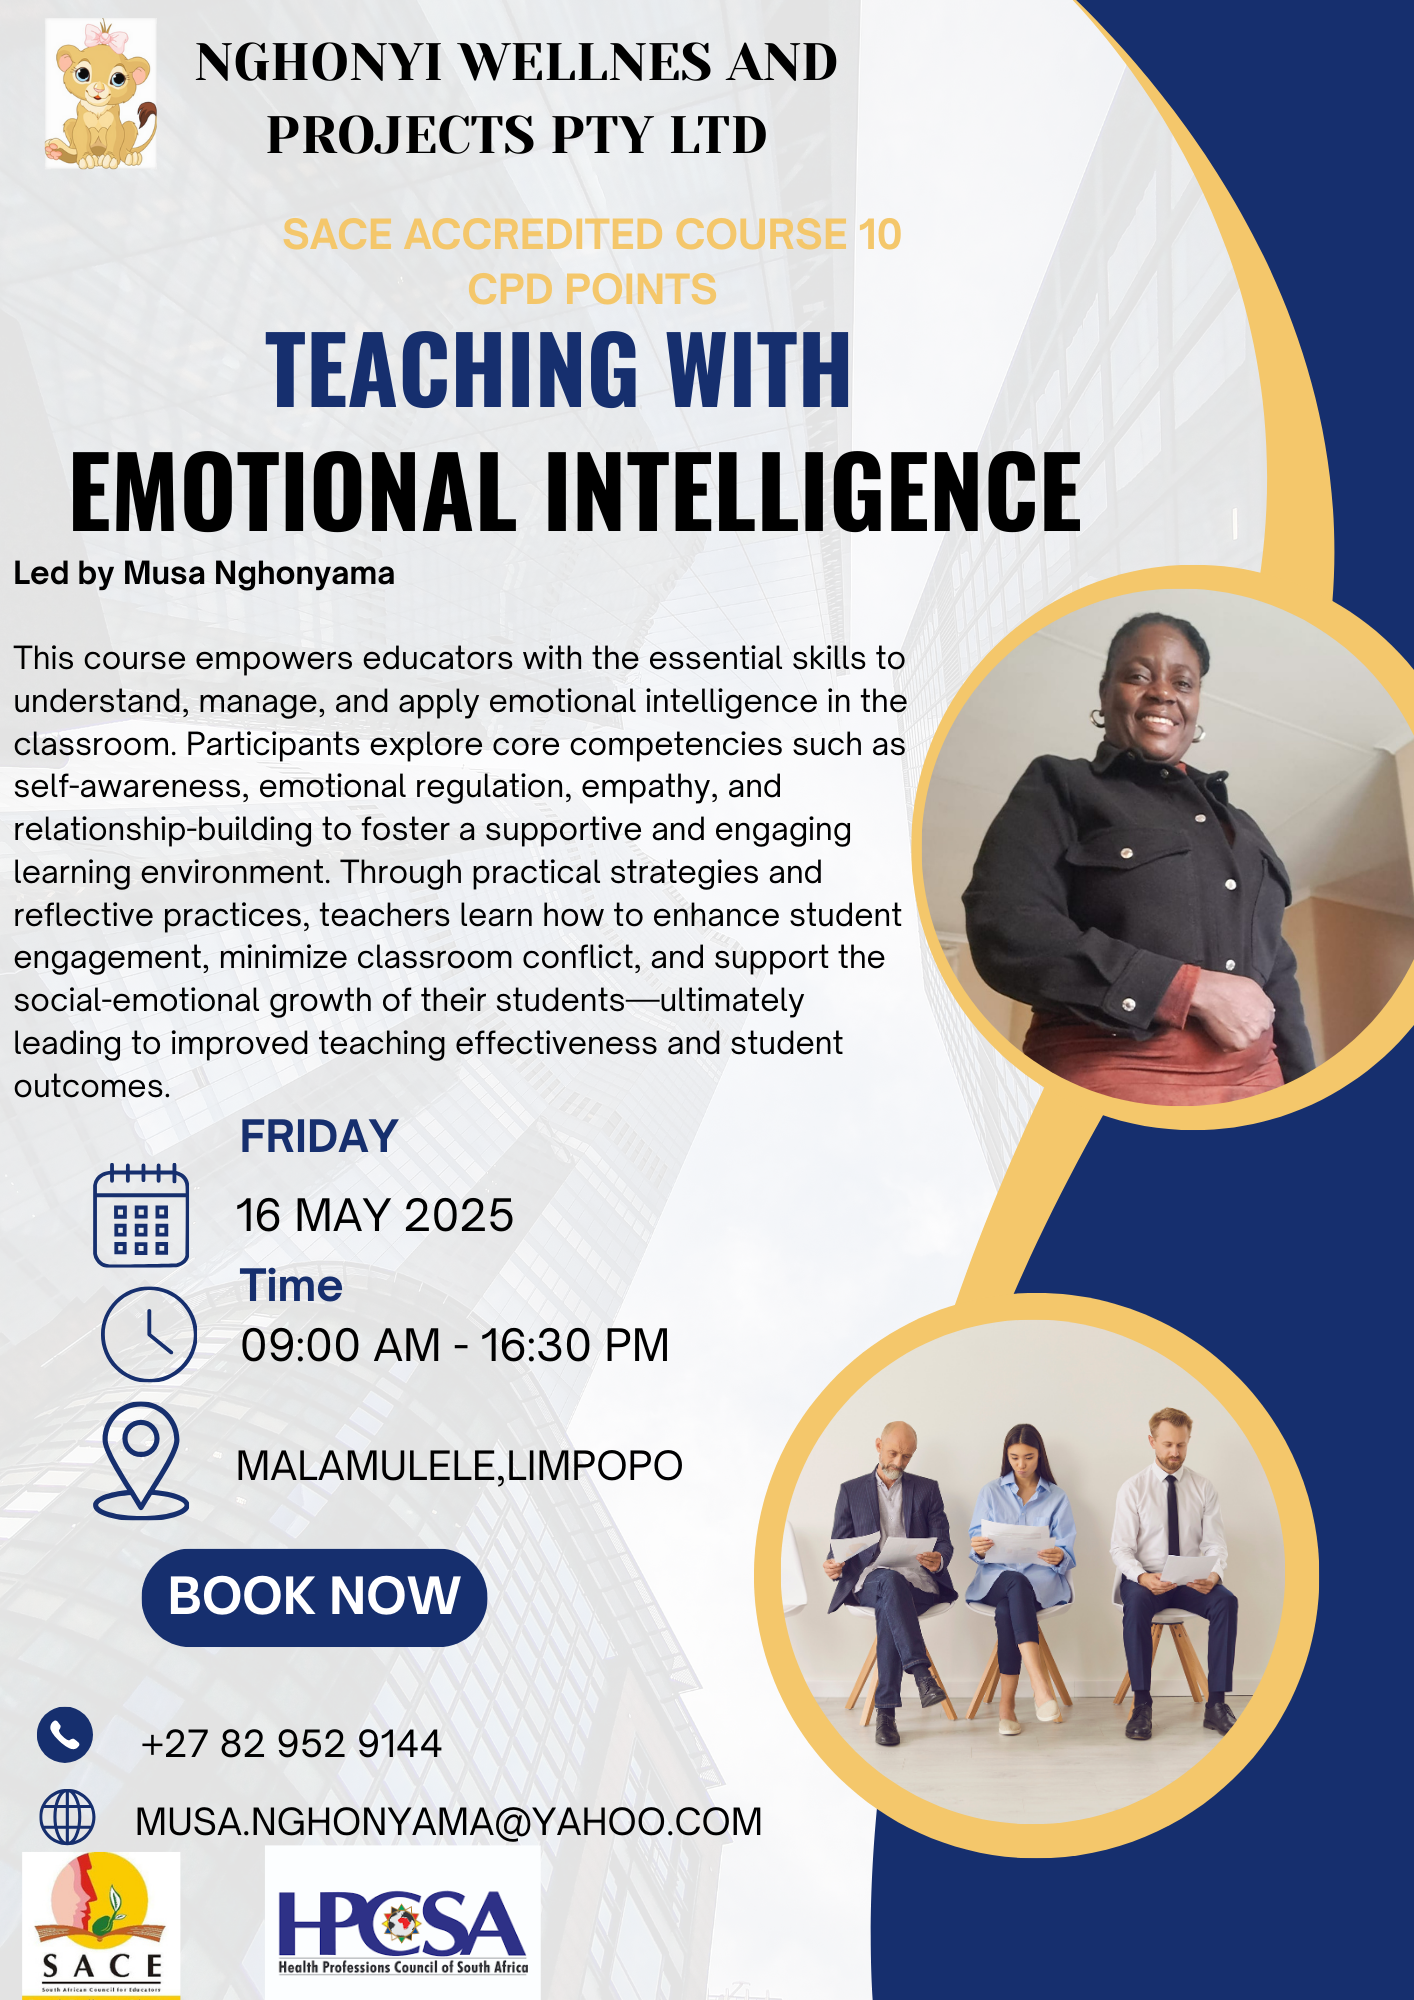
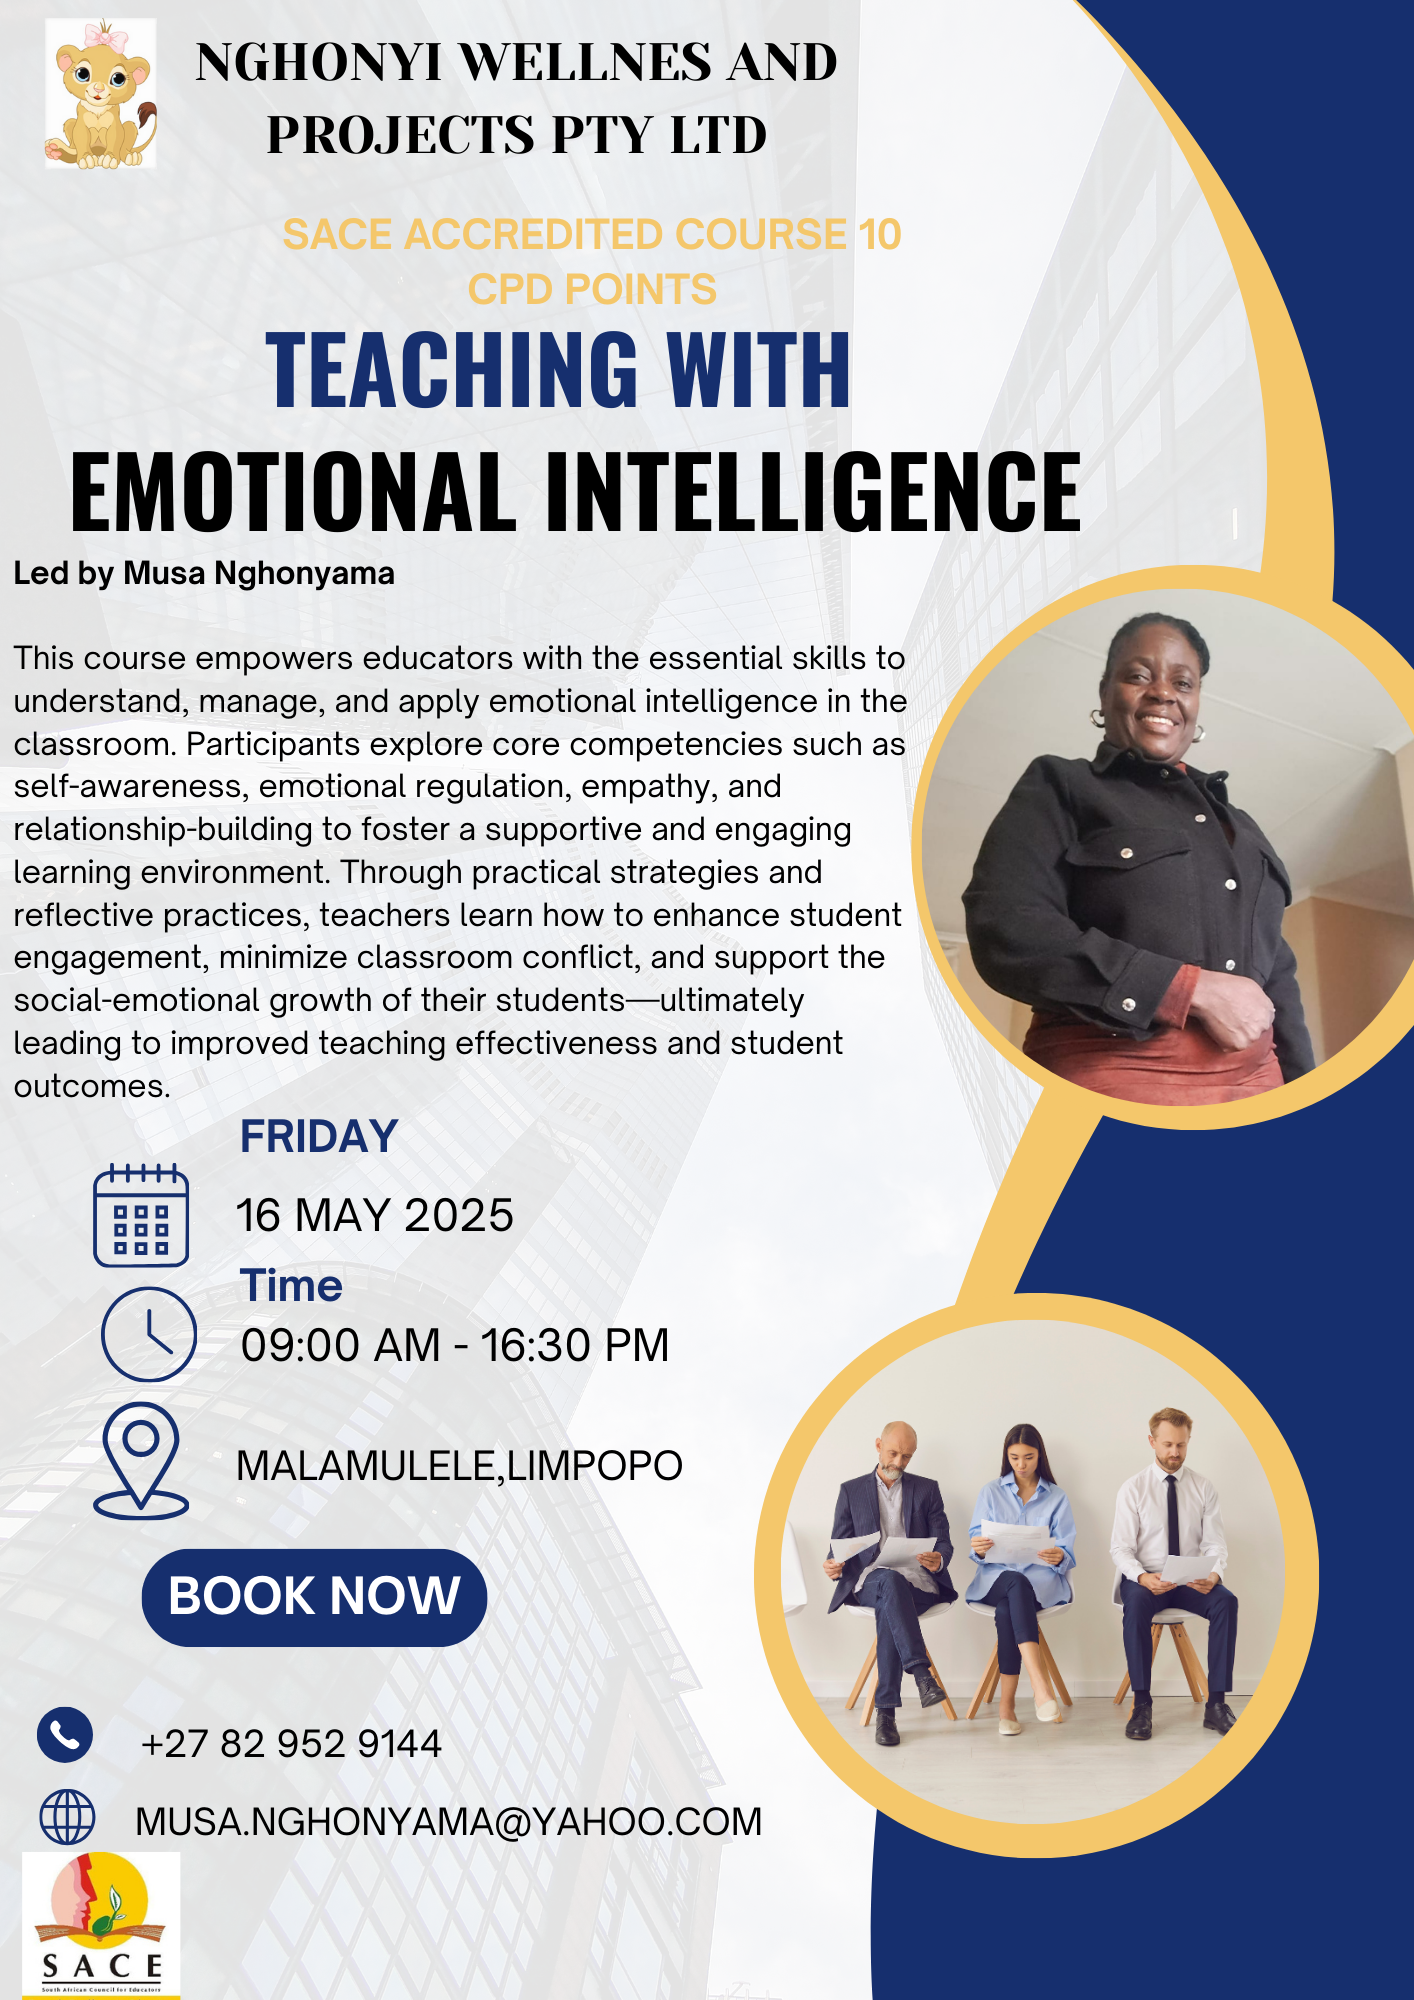
Add files via upload

Changed region(s): [[0.1867, 0.899, 0.4045, 1.0]]

diff --git a/index.html b/index.html
@@ -23,7 +23,7 @@
     <div class="d-flex justify-content-center flex-wrap gap-3 mb-2">
         
         <img src="assets/images/South_African_Council_for_educator_image.jpeg" alt="Gallery 3" class="img-thumbnail" style="width:90px; height:90px; object-fit:cover;">
-        <img src="assets/images/hpcsa.png" alt="Gallery 4" class="img-thumbnail" style="width:90px; height:90px; object-fit:cover;">
+        
         <!-- Add more images as needed -->
     </div>
 
